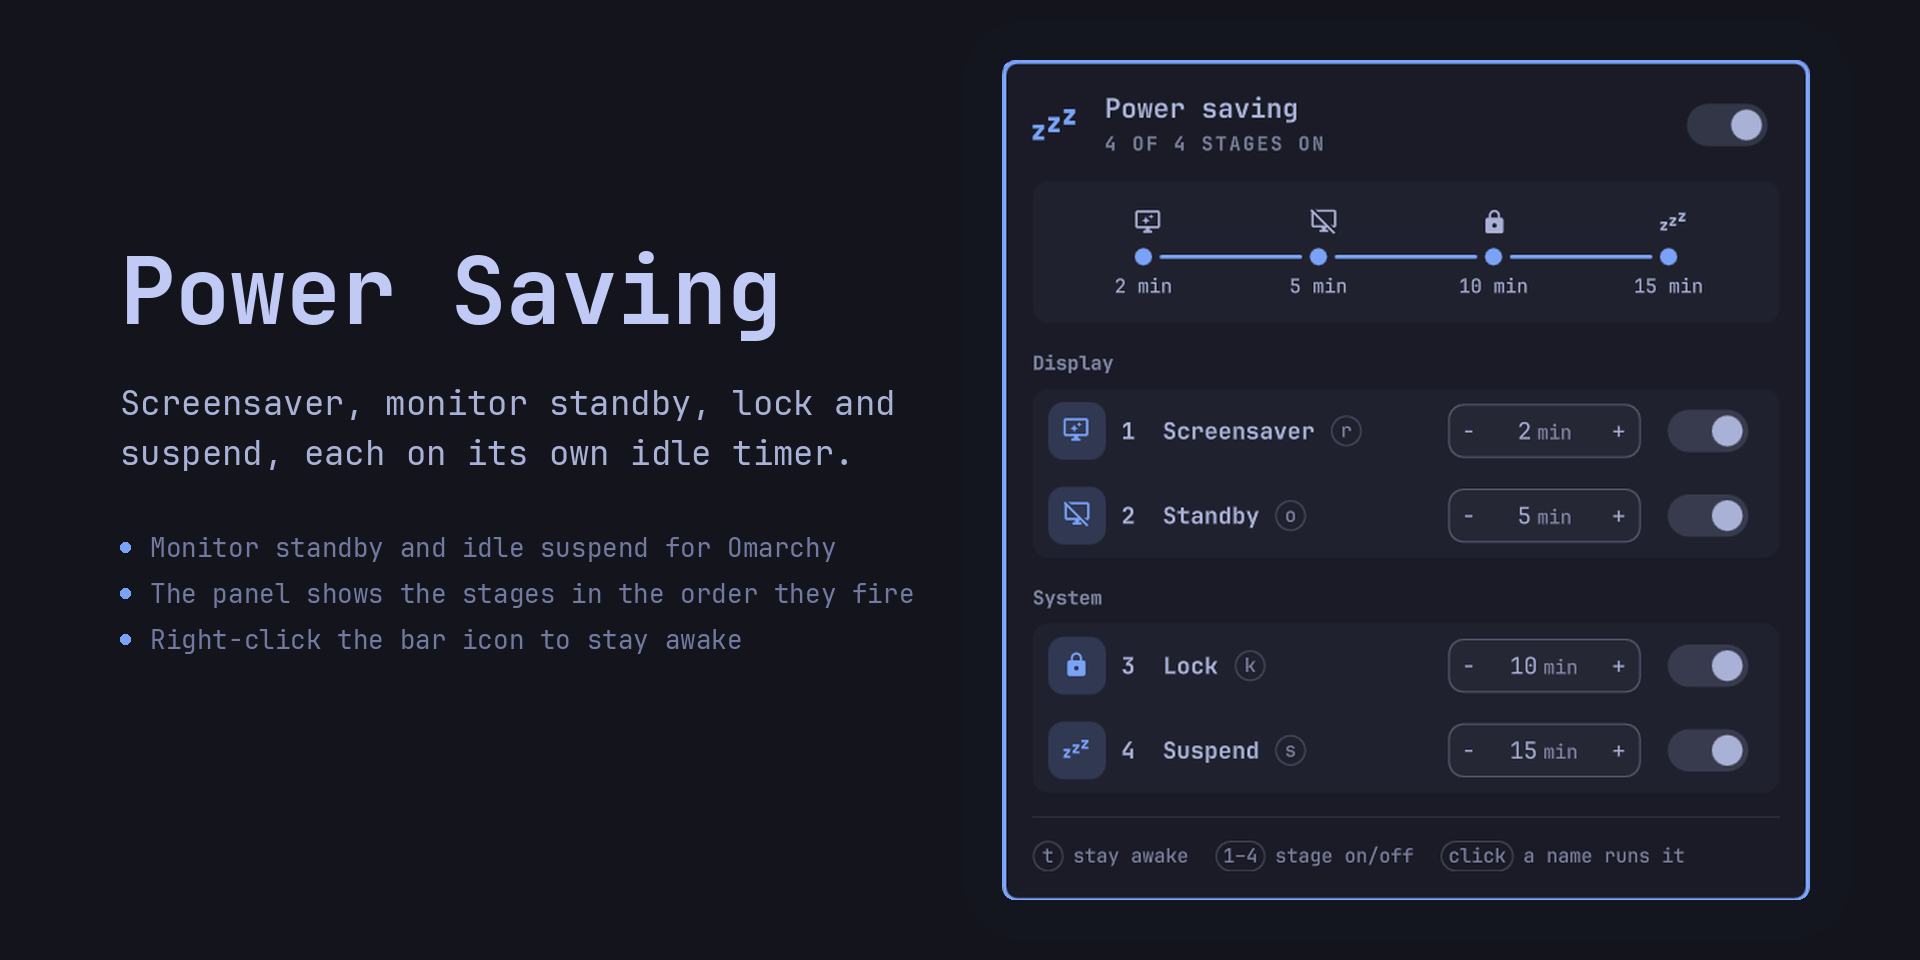
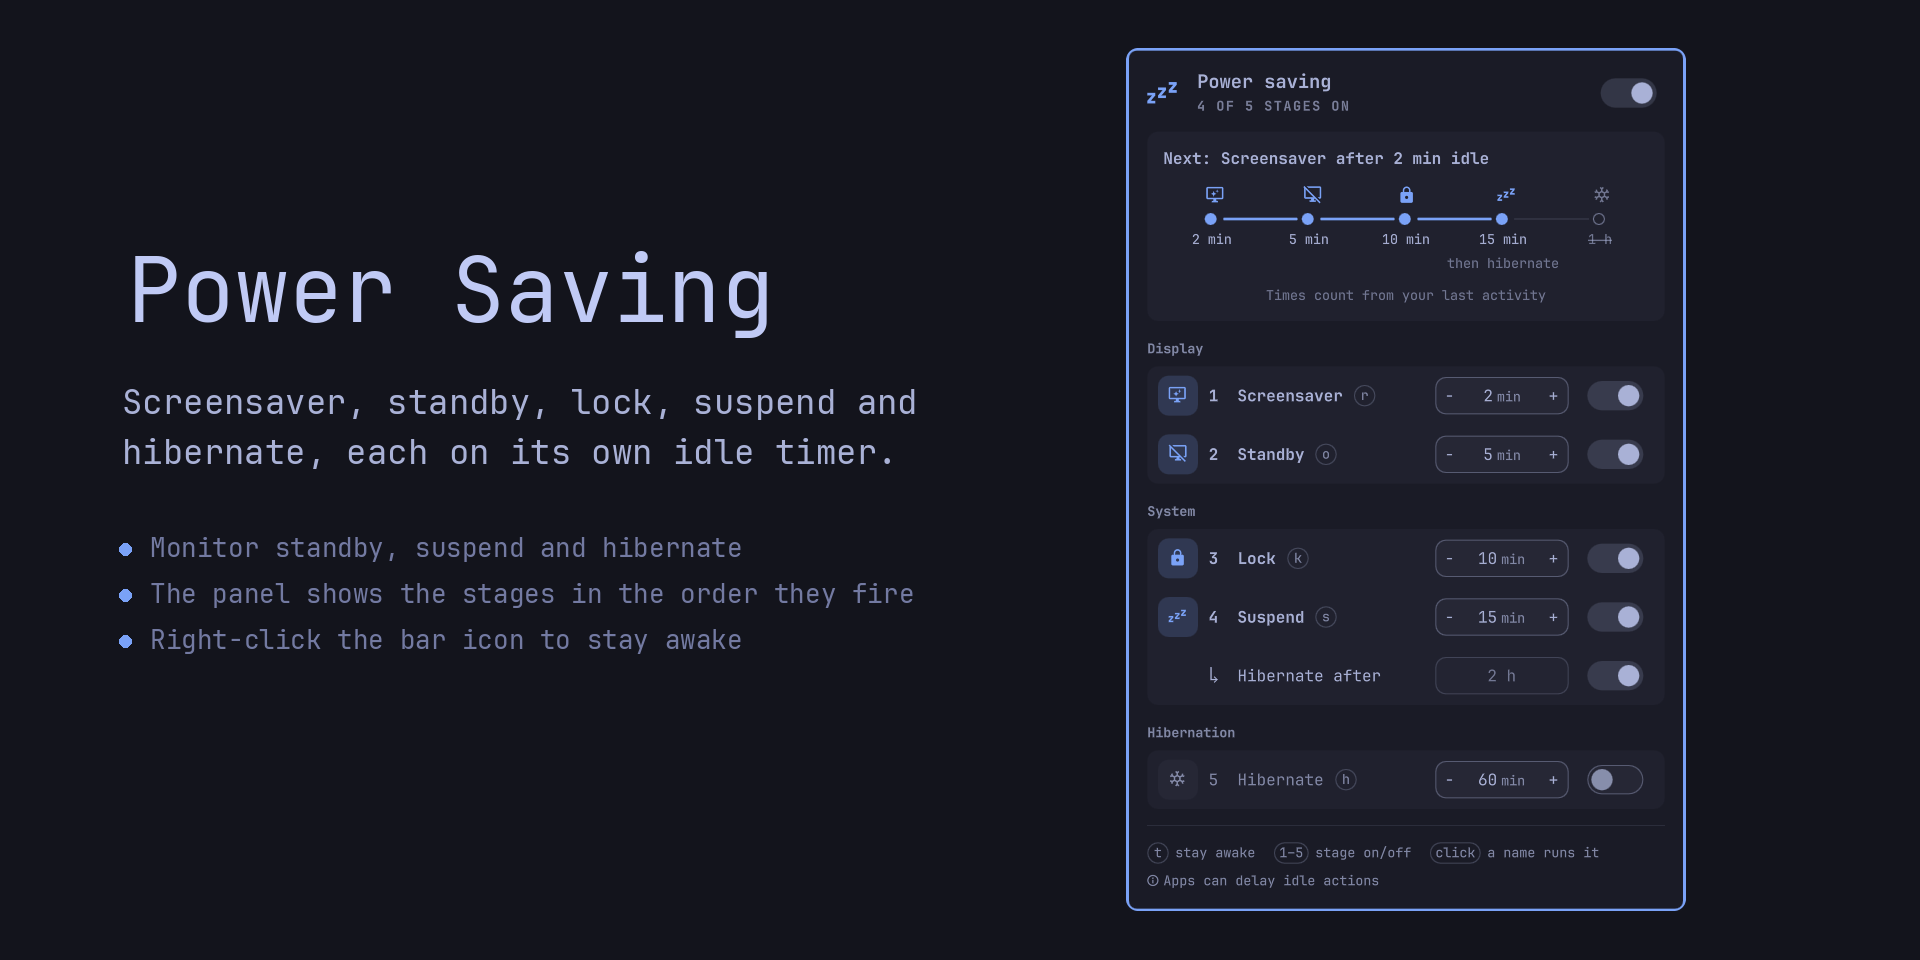
1.6.0: review fixes, full panel height, new preview
Every config write keeps the stage rules: suspend and hibernate both on
becomes hibernate only, and Hibernate after goes off with suspend, also for a
config edited by hand. Hibernate counts as off where it cannot run. Hibernate
after switched on with suspend off now turns suspend on. IPC stage and
suspendThenHibernate answer with the state asked for, not the one before the
config reload.

The panel is no longer capped at 640 px, which cut its footer. The "then
hibernate" note under the suspend stop is shown in full.

Preview shows the five stages.

diff --git a/Service.qml b/Service.qml
@@ -636,9 +636,9 @@ Item {
   // same write.
   function setSuspendThenHibernate(value) {
     var enabled = !!value
-    if (root.suspendThenHibernate === enabled) return true
     if (enabled && !stageEnabled("suspend"))
       return setGatedStage("suspend", true, function(idle) { idle.suspendThenHibernate = true })
+    if (root.suspendThenHibernate === enabled) return true
     return mutateIdleConfig("suspendThenHibernate " + (enabled ? "on" : "off"), function(idle) {
       idle.suspendThenHibernate = enabled
     })
@@ -710,7 +710,7 @@ Item {
     if (name === "standby") return root.standbyEnabled
     if (name === "lock") return root.lockEnabled
     if (name === "suspend") return root.suspendEnabled && !root.suspendOverridden
-    if (name === "hibernate") return root.hibernateEnabled
+    if (name === "hibernate") return root.hibernateEnabled && root.canHibernate
     return false
   }
 
@@ -810,6 +810,7 @@ Item {
     }
     var next = IdleModel.stageSettingsFor(root.entrySettings, root.stageConfig)
     mutate(next)
+    IdleModel.exclusiveSettings(next, root.canHibernate)
     if (JSON.stringify(next) === JSON.stringify(root.entrySettings)) return true
     var written = root.shell.updateEntryInline(root.pluginId, next)
     logEvent(written === false ? "config-write-rejected" : "config", label)
@@ -889,7 +890,8 @@ Item {
       return setGatedStage("lock", enabled)
     }
     if (name === "suspend" || name === "hibernate") {
-      if (stageEnabled(name) === enabled) return true
+      // Off checks the stored flag: one that is set but not in effect still gets cleared.
+      if (enabled ? stageEnabled(name) : !root[name + "Enabled"]) return true
       if (name === "hibernate" && enabled && !root.canHibernate) return false
       return setGatedStage(name, enabled)
     }
@@ -908,8 +910,6 @@ Item {
       idle[name + "Enabled"] = enabled
       idle[name] = seconds
       if (other !== "") idle[other + "Enabled"] = false
-      // Then hibernate modifies suspend, so it goes off with it.
-      if (!idle.suspendEnabled) idle.suspendThenHibernate = false
       if (extra) extra(idle)
     })
     if (!written) return false
@@ -1344,9 +1344,12 @@ Item {
     function stage(name: string, action: string): string {
       if (!IdleModel.isStage(name)) return "unknown stage: " + name
       var act = String(action || "status")
-      if (act === "on" || act === "off") root.setStageEnabled(name, act === "on")
-      else if (act === "toggle") root.setStageEnabled(name, !root.stageEnabled(name))
-      else if (act !== "status") return "unknown action: " + act
+      if (act !== "on" && act !== "off" && act !== "toggle" && act !== "status") return "unknown action: " + act
+      // Config reloads after this returns, so a written change answers with the state asked for.
+      if (act !== "status") {
+        var want = act === "toggle" ? !root.stageEnabled(name) : act === "on"
+        if (root.setStageEnabled(name, want)) return want ? "on" : "off"
+      }
       return root.stageEnabled(name) ? "on" : "off"
     }
 
@@ -1373,10 +1376,13 @@ Item {
     // omarchy-shell idle suspendThenHibernate <on|off|toggle|status>
     function suspendThenHibernate(action: string): string {
       var act = String(action || "status")
-      if (act === "on" || act === "off") root.setSuspendThenHibernate(act === "on")
-      else if (act === "toggle") root.setSuspendThenHibernate(!root.suspendThenHibernate)
-      else if (act !== "status") return "unknown action: " + act
-      return (root.suspendThenHibernate ? "on" : "off") + (root.canSuspendThenHibernate ? "" : " (not available here, suspends instead)")
+      if (act !== "on" && act !== "off" && act !== "toggle" && act !== "status") return "unknown action: " + act
+      var state = root.suspendThenHibernate
+      if (act !== "status") {
+        var want = act === "toggle" ? !state : act === "on"
+        if (root.setSuspendThenHibernate(want)) state = want
+      }
+      return (state ? "on" : "off") + (root.canSuspendThenHibernate ? "" : " (not available here, suspends instead)")
     }
 
     function hibernate(): string {

diff --git a/IdleModel.js b/IdleModel.js
@@ -274,6 +274,19 @@ function mergedStageConfig(entrySettings, idleConfig) {
 
 // What a write puts on the entry: whatever else it carries, plus every stage
 // key currently in effect, so the first write migrates the idle block.
+// Rules every config write keeps: suspend and hibernate are never both on
+// (hibernate wins where the system can hibernate), and then hibernate is off
+// while suspend is. Covers config edited by hand.
+function exclusiveSettings(settings, canHibernate) {
+  var suspendOn = boolFromConfig(settings.suspendEnabled, false)
+  if (suspendOn && canHibernate && boolFromConfig(settings.hibernateEnabled, false)) {
+    settings.suspendEnabled = false
+    suspendOn = false
+  }
+  if (!suspendOn && boolFromConfig(settings.suspendThenHibernate, false)) settings.suspendThenHibernate = false
+  return settings
+}
+
 function stageSettingsFor(entrySettings, stageConfig) {
   var out = {}
   for (var key in entrySettings || {}) out[key] = entrySettings[key]
@@ -297,6 +310,7 @@ if (typeof module !== "undefined") {
     GROUP_ORDER: GROUP_ORDER,
     EXCLUSIVE: EXCLUSIVE,
     exclusiveWith: exclusiveWith,
+    exclusiveSettings: exclusiveSettings,
     timeoutBounds: timeoutBounds,
     clampToBounds: clampToBounds,
     firstTimeout: firstTimeout,

diff --git a/tests/idle-model.test.js b/tests/idle-model.test.js
@@ -119,3 +119,19 @@ test("why a time is bounded", () => {
   assert.strictEqual(M.boundsReason("lock", s), "Lock cannot follow Suspend")
   assert.strictEqual(M.boundsReason("hibernate", s), "")
 })
+
+test("a config write never keeps suspend and hibernate both on", () => {
+  assert.deepStrictEqual(M.exclusiveSettings({ suspendEnabled: true, hibernateEnabled: true, suspendThenHibernate: true }, true),
+    { suspendEnabled: false, hibernateEnabled: true, suspendThenHibernate: false })
+  // Without hibernation, suspend stays on.
+  assert.deepStrictEqual(M.exclusiveSettings({ suspendEnabled: true, hibernateEnabled: true }, false),
+    { suspendEnabled: true, hibernateEnabled: true })
+})
+
+test("then hibernate goes off with suspend, string values included", () => {
+  assert.deepStrictEqual(M.exclusiveSettings({ suspendEnabled: "false", suspendThenHibernate: true }, true),
+    { suspendEnabled: "false", suspendThenHibernate: false })
+  assert.deepStrictEqual(M.exclusiveSettings({ suspendEnabled: true, suspendThenHibernate: true }, true),
+    { suspendEnabled: true, suspendThenHibernate: true })
+  assert.deepStrictEqual(M.exclusiveSettings({ hibernateEnabled: true }, true), { hibernateEnabled: true })
+})

diff --git a/IdleSchedule.qml b/IdleSchedule.qml
@@ -141,15 +141,16 @@ Rectangle {
                 elide: Text.ElideRight
               }
 
+              // Wider than its cell: centred under the stop, kept inside the row.
               Text {
                 visible: !!stop.modelData.note
-                width: parent.width
+                width: Math.min(implicitWidth, stops.width)
+                x: Math.max(-stop.x, Math.min((parent.width - width) / 2, stops.width - stop.x - width))
                 textFormat: Text.PlainText
                 text: stop.modelData.note || ""
                 color: root.secondary
                 font.family: root.fontFamily
                 font.pixelSize: Style.font.caption
-                horizontalAlignment: Text.AlignHCenter
                 elide: Text.ElideRight
               }
             }

diff --git a/Panel.qml b/Panel.qml
@@ -446,7 +446,7 @@ Panel {
     open: root.opened
     focusTarget: keyCatcher
     contentWidth: panel.fittedContentWidth(Style.space(420))
-    contentHeight: panel.fittedContentHeight(column.implicitHeight, Style.space(640))
+    contentHeight: panel.fittedContentHeight(column.implicitHeight)
 
     // Not the stock PanelKeyCatcher: it fires on key press only, and turns
     // lowercase "l" into a cursor move before any panel sees it. Two things

diff --git a/SYMBOLS.md b/SYMBOLS.md
@@ -5,7 +5,7 @@ One section per file: its first doc line, then each top-level symbol with its li
 
 <!-- repo-docs v3 roots=. 2026-10-24 -->
 
-## IdleModel.js (317 lines)
+## IdleModel.js (331 lines)
 Pure helpers shared by Service.qml and Panel.qml. Cloned from
 - function secondsFromConfig L4
 - function boolFromConfig L10
@@ -34,9 +34,10 @@ Pure helpers shared by Service.qml and Panel.qml. Cloned from
 - const STAGE_KEYS L242
 - function barEntrySettings L246: without the id; {} when the entry is absent, so reads fall back.
 - function mergedStageConfig L265: A key missing from both stays missing so Service.qml's defaults apply.
-- function stageSettingsFor L277: key currently in effect, so the first write migrates the idle block.
+- function exclusiveSettings L280: while suspend is. Covers config edited by hand.
+- function stageSettingsFor L290
 
-## IdleSchedule.qml (199 lines)
+## IdleSchedule.qml (200 lines)
 The stages in the order they fire: one stop per stage, sorted by timeout,
 - property stages L17: when set, is a caption under the time.
 - property status L19: One line above the stops; empty hides it.
@@ -72,7 +73,7 @@ Minutes spin box for the stage rows: Omarchy's NumberField look, without
 - function keypadDigit L86: KP_Insert … KP_PageUp, as they arrive without NumLock, in keypad order 0–9.
 - function digitOf L103: The digit a key press types, "" for any other key.
 
-## Panel.qml (619 lines)
+## Panel.qml (647 lines)
 Power saving: a bar icon (highlighted while "stay awake" is on) with a panel
 - property svc L26
 - property ready L27
@@ -118,9 +119,9 @@ Power saving: a bar icon (highlighted while "stay awake" is on) with a panel
 - component KeyCap L146: A key as printed on the keyboard, for the keys the panel answers to.
 - component StageRow L169: glyph-and-name part is a button that runs the stage at once.
 - component ThenHibernateRow L284: read-only, since the plugin cannot set it, and says how to on hover.
-- component StageGroup L353
+- component StageGroup L381
 
-## Service.qml (1400 lines)
+## Service.qml (1406 lines)
 Power-saving idle service in five stages, each with its own switch and
 - property shell L59: Injected by omarchy-shell (the service loader).
 - property home L61
@@ -261,14 +262,14 @@ Power-saving idle service in five stages, each with its own switch and
 - function stageJson L726
 - function statusJson L730
 - function mutateIdleConfig L806: `shell.barConfig`, which is what re-arms the monitors.
-- function stageStates L820: Every stage as { key: { enabled, seconds } }, for IdleModel.timeoutBounds.
-- function stageTimeoutBounds L831: that is off has no neighbour limit; it is moved into range when turned on.
-- function setStageTimeout L836
-- function timeoutWhenEnabled L846: that keeps it in order with the other stage of its group.
-- function noteMoved L854: Tells the panel a stage was moved; called only once the write went through.
-- function note L858
-- function setStageEnabled L863
-- function setGatedStage L903: `extra`, when given, changes more keys in the same write.
+- function stageStates L821: Every stage as { key: { enabled, seconds } }, for IdleModel.timeoutBounds.
+- function stageTimeoutBounds L832: that is off has no neighbour limit; it is moved into range when turned on.
+- function setStageTimeout L837
+- function timeoutWhenEnabled L847: that keeps it in order with the other stage of its group.
+- function noteMoved L855: Tells the panel a stage was moved; called only once the write went through.
+- function note L859
+- function setStageEnabled L864
+- function setGatedStage L905: `extra`, when given, changes more keys in the same write.
 - function persistStayAwake L923
 - function refreshStayAwakeState L938
 - function applyShellConfigText L942
@@ -280,6 +281,6 @@ Power-saving idle service in five stages, each with its own switch and
 - function armMonitor L1039
 - function syncMonitors L1056
 
-## tests/idle-model.test.js (121 lines)
+## tests/idle-model.test.js (137 lines)
 Stage order within a group: `node --test tests/`.
 - function states L6

diff --git a/docs/status.md b/docs/status.md
@@ -3,35 +3,34 @@
 Current state only. The next session starts here. History: `docs/history/status-journal.md`.
 Budget 15 KB.
 
-## Where things stand, 2026-10-22
+## Where things stand, 2026-10-24
 
 | Thing | State |
 |---|---|
 | Released | 1.4.5 (`be25c0f`), verified on the marketplace (#11121) |
-| `main` on GitHub | 1.5.0, the commit named in issue #12622 |
-| Tag `v1.5.0` | On the commit named in #12622 (moved there on 2026-10-22) |
-| Marketplace | #12622 `[Verify]` 1.5.0: compatibility and security baseline passed, waiting for a maintainer |
-| Installed copy | Runs the 1.5.0 files, copied in for the live check |
+| `main` on GitHub | 1.6.0, the commit named in issue #12622 |
+| Tags | `v1.6.0` on that commit; `v1.5.0` stays on `ec9acf8`, never published |
+| Marketplace | #12622 `[Verify]`, retitled from 1.5.0 to 1.6.0, waiting for the bot and a maintainer |
+| Installed copy | Runs the 1.6.0 files, copied in for the live check |
 
 ## Pending
 
 1. #12622 approved. While it is open, a push makes it stale: edit its body to the new HEAD SHA and watch the bot.
 2. After approval, `omarchy plugin update io.github.selfcrypto.power-saving` so the installed copy is clean again.
-3. Check what logind does when another program holds a sleep lock: the suspend call is
+3. No real hibernate or suspend-then-hibernate tested yet: it writes RAM to the swapfile on the NVMe,
+   only with Kike's go-ahead after closing what is open. A short delay needs a root drop-in
+   (`HibernateDelaySec=`). The logind command branch was checked dry.
+4. Check what logind does when another program holds a sleep lock: the suspend call is
    interactive and polkit allows ignoring a lock with an admin password, so it may prompt
    instead of being refused. The README claim was removed until this is tested (needs a real
    suspend; mind the short-suspend NVMe issue).
-4. Config writes close together can lose the first: `mutateIdleConfig` rebuilds the entry from the
+5. Config writes close together can lose the first: `mutateIdleConfig` rebuilds the entry from the
    last file reload, so a second write before the reload (stepper commit, then a switch click on
    another stage within a fraction of a second) overwrites the first. `setGatedStage` already
    writes switch and timeout of one stage together. Fix: keep a pending entry in the service and
    apply each mutation onto it until the reload matches. Found by the Fable review, 2026-10-22.
-
-5. Branch `suspend-then-hibernate` (not pushed): the lock fix, a Hibernate stage exclusive with suspend,
-   a "↳ Hibernate after" row with systemd's delay in a greyed box. IPC checked live before the delay
-   line; the information additions (Astra's review) not yet loaded in the shell. No real hibernate tested yet: it writes RAM to
-   the swapfile on the NVMe, only with Kike's go-ahead after closing what is open. Releases as 1.6.0
-   after #12622 is approved.
+6. `IdleModel.timespanSeconds` does not know `month`, `y` or `infinity`; such a `HibernateDelaySec`
+   shows as the 2 h default.
 
 ## Standing facts
 
@@ -40,6 +39,13 @@ Budget 15 KB.
 - Only the keyboard wakes the PC from suspend (kernel USB wakeup, udev rule), not the plugin.
 
 ## Done
+
+- **2026-10-24.** 1.6.0: Hibernate stage, suspend and hibernate exclusive, "Hibernate after" with
+  systemd's delay, information in the panel, new preview. Tested live through IPC (every switch
+  path, bounds, hand-edited config) and on screen. Review fixes: every config write keeps the
+  stage rules (`exclusiveSettings`), hibernate counts as off where it cannot run, "Hibernate after"
+  on with suspend off turns suspend on, IPC answers with the state asked for, the panel is no
+  longer capped at 640 px (its footer was cut), the "then hibernate" note is no longer elided.
 
 - **2026-10-23.** "Then hibernate" and suspend move together (found by Kike twice): switching it on
   switches suspend on; switching suspend off, by its switch or by hibernate going on, switches it off.

diff --git a/docs/decisions.md b/docs/decisions.md
@@ -98,3 +98,13 @@ Titles are never changed once cited from another file.
 **Decision.** The schedule line says what fires next ("Next: Screensaver after 2 min idle") with "Times count from your last activity" under the stops; suspend and hibernate rows say what they do when on; switch tooltips say when turning one on turns the other off; minutes fields show their range and the stage limiting it; the footer notes that apps can delay idle actions and when hibernation is unavailable; run-now tooltips say they work while paused. The then-hibernate row is "↳ Hibernate after", under the suspend name with systemd's delay in a greyed stepper-sized box ("2 h", "45 min / battery") and, on hovering the box, where it comes from and how to change it.
 **Why.** Kike found the plugin's information scarce. Astra (gpt-6-astra) ranked what a user cannot learn from the panel; Kike asked for it where better, and for "Then hibernate after".
 **Alternative rejected.** An "Idle for 8 min" countdown: the panel opening is activity, so it would never show. Naming the inhibiting app: the service does not know it. Replacing the hero's stage count with "Automatic stages on": the count says more. Captions under the suspend and hibernate names ("Locks, then suspends"): pushed the row's controls out of the card, and Kike found them pointless.
+
+## 2026-10-24 · Every config write keeps the stage rules
+**Decision.** `mutateIdleConfig` passes each new entry through `IdleModel.exclusiveSettings`: suspend and hibernate both on becomes hibernate only (where the system can hibernate), and "Hibernate after" goes off while suspend is off. Hibernate counts as off where logind cannot hibernate.
+**Why.** A config edited by hand with both on left a stale `suspendEnabled` that bounds ignored and that came back when hibernate went off, out of order with lock. Found by a Claude review of the branch.
+**Alternative rejected.** Fixing each switch path: misses timeouts and any write added later.
+
+## 2026-10-24 · 1.6.0 replaces 1.5.0 in #12622
+**Decision.** 1.5.0 was never approved, so #12622 was retitled to 1.6.0 and pointed at the 1.6.0 commit instead of waiting to publish 1.5.0 first. Tag `v1.5.0` stays where it was.
+**Why.** Kike: publishing an old version and then this one makes no sense.
+**Alternative rejected.** A second `[Verify]` issue after 1.5.0's approval.

diff --git a/MAP.md b/MAP.md
@@ -8,6 +8,7 @@ grep it). This file says what each file is for and where to go for a kind of cha
 | What | Where | Also moves |
 |---|---|---|
 | When a stage fires, what it does | `Service.qml` (`syncMonitors`, `scheduleAwayStage`, `startIdleCycle`) | README "Behaviour" |
+| Suspend and hibernate never both on | `IdleModel.js` (`EXCLUSIVE`, `exclusiveSettings`), `Service.qml` (`mutateIdleConfig`, `setGatedStage`) | `tests/idle-model.test.js` |
 | Which stage times are allowed | `IdleModel.js` (`GROUP_ORDER`, `timeoutBounds`), `Service.qml` (`setStageTimeout`, `timeoutWhenEnabled`) | `tests/idle-model.test.js`, README "Order within a group" |
 | Switching a stage on or off | `Service.qml` (`setStageEnabled`, `setGatedStage`) | |
 | Config keys and their defaults | `Service.qml` (`default*Seconds`), `IdleModel.js` (`STAGE_KEYS`, `mergedStageConfig`) | README "Configuration" |
